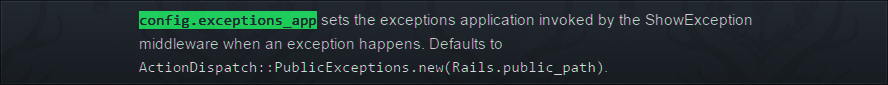
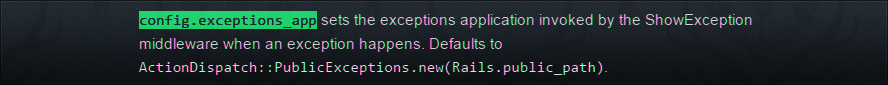
Config.exceptions_app
Former-commit-id: ba97573968dd39ed97c3454eff759b40b7abce18
Former-commit-id: ec80c386a31b565e441b4f7a0add52b586e44208

diff --git a/README.md b/README.md
@@ -85,7 +85,7 @@ The secret lies in [**`config.exceptions_app`**][exception_app] ↴
 
 All Rails exceptions are handled with the `config.exceptions_app` callback, assigned in `config/application.rb` or `config/environments/*.rb`:
 
-> **`config.exceptions_app`** sets the exceptions application invoked by the **`ShowException`** middleware when an exception happens. Defaults to **`ActionDispatch::PublicExceptions.new(Rails.public_path)`**
+> **`config.exceptions_app`** sets the exceptions application invoked by the **`ShowException`** middleware when an exception happens. Defaults to **`ActionDispatch::PublicExceptions.new(Rails.public_path)`**:
 
 ![config.exceptions_app][config.exceptions_app]
 
